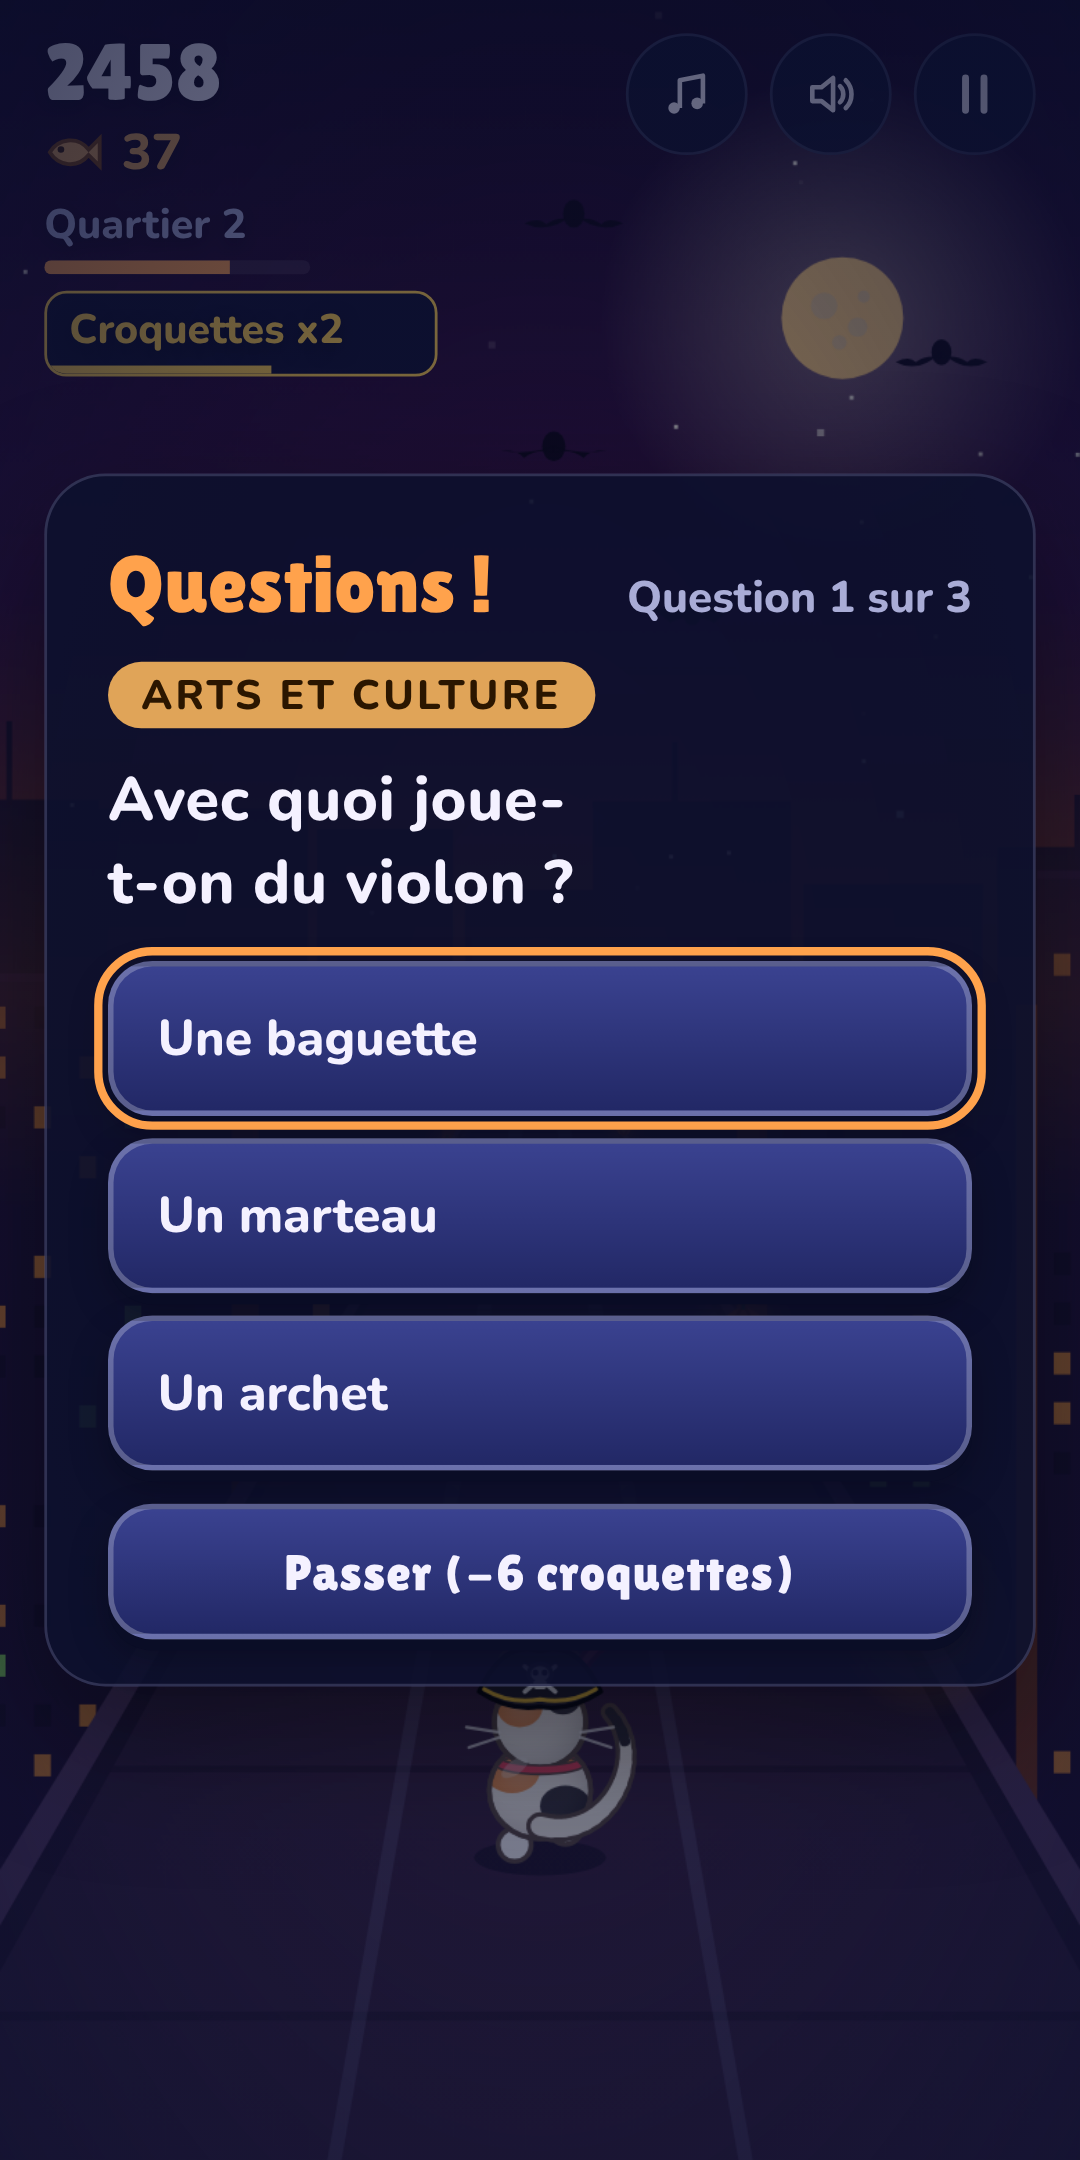
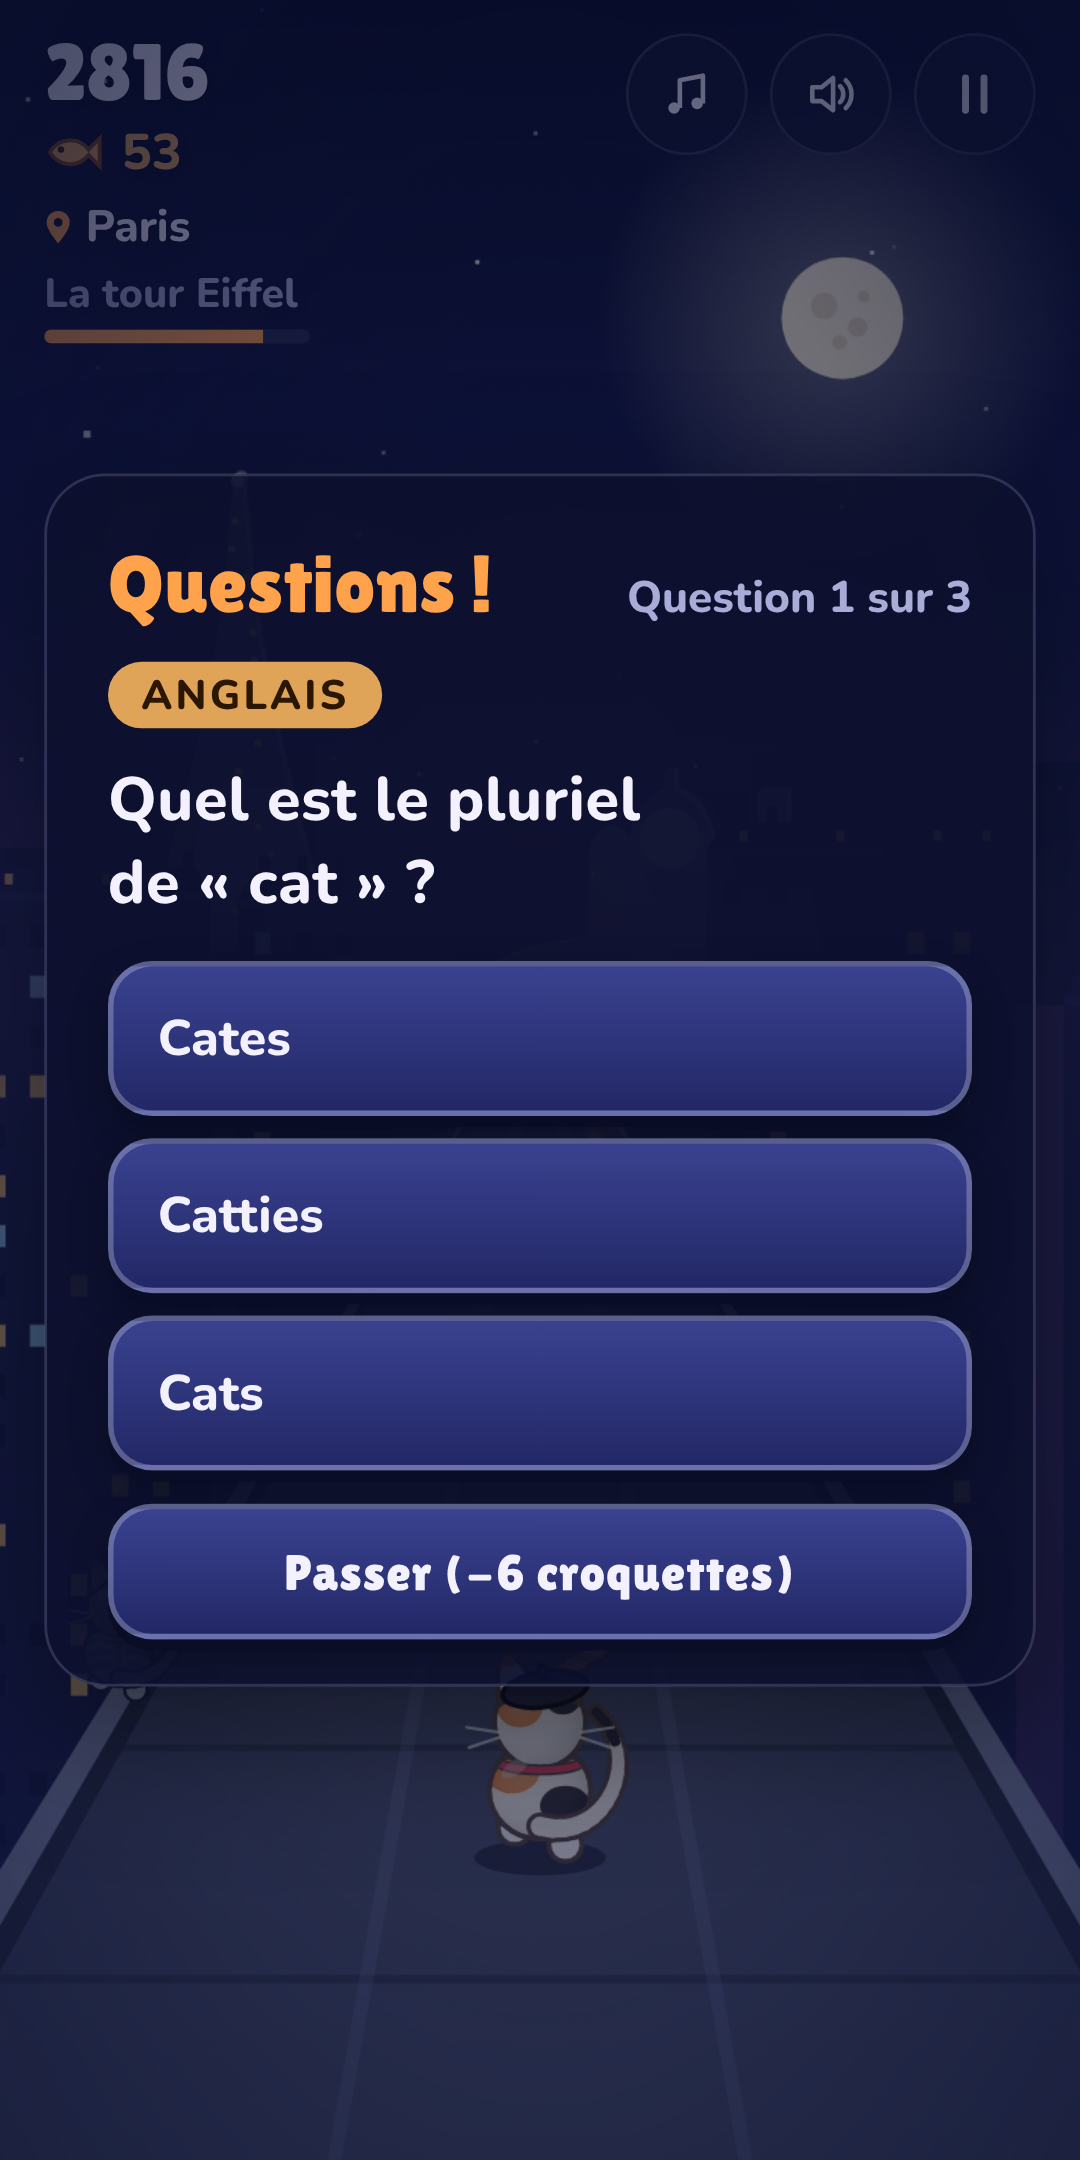
Nouvelles captures du Play Store : villes, carte de France, sans décor de fête
Claude-Session: https://claude.ai/code/session_01JdYRHE65jz55i9QTGZhUWS

diff --git a/store/PLAY-STORE.md b/store/PLAY-STORE.md
@@ -6,9 +6,7 @@ Ce dossier contient tout ce qu'il faut pour la fiche du Play Store :
 | --- | --- |
 | `icone-512.png` | Fiche principale › Icône de l'appli (512 × 512) |
 | `banniere-1024x500.png` | Fiche principale › Image de présentation (1024 × 500) |
-| `capture-1-accueil.png` … `capture-4-questions.png` | Fiche principale › Captures d'écran du téléphone (1080 × 2160) |
-
-Les captures d'écran datent d'avant le voyage en France : les refaire avec les nouveaux écrans (villes et monuments, carte de France, noms de rues, histoire) avant d'envoyer la fiche.
+| `capture-1-accueil.png` … `capture-5-boutique.png` (accueil, course à Paris, carte de France, questions, boutique) | Fiche principale › Captures d'écran du téléphone (1080 × 2160), dans cet ordre |
 
 Politique de confidentialité : `https://siquane.github.io/Neko-Odyssey/confidentialite.html`
 
